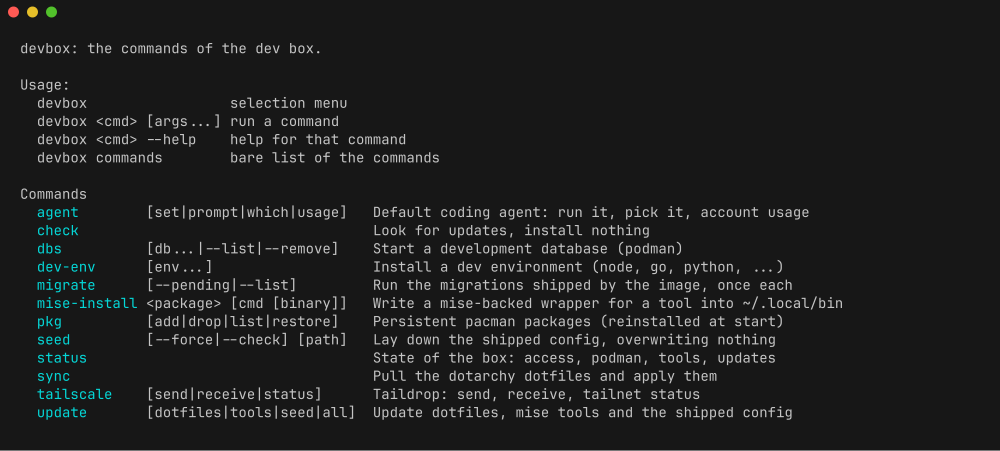
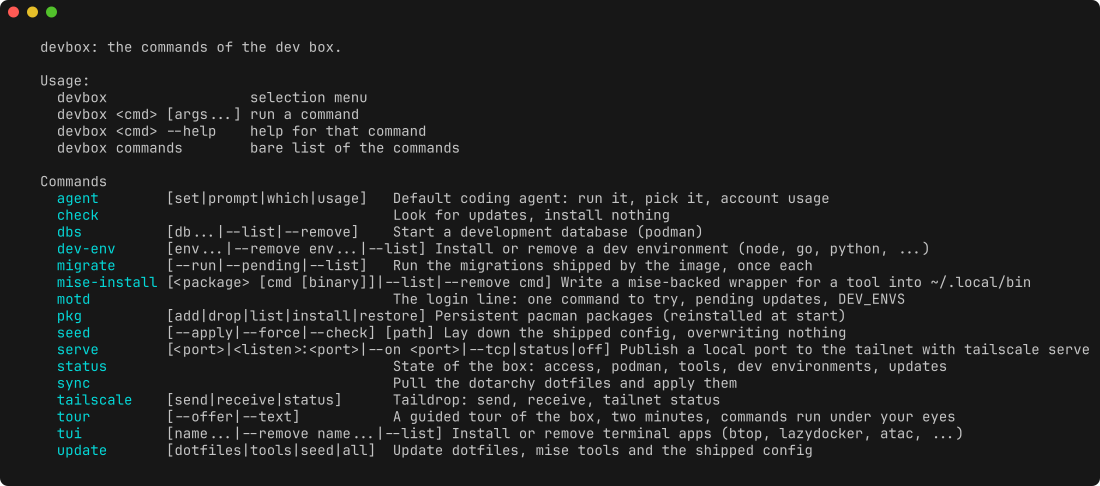
Screenshots: devbox --help and just --list refreshed, devbox tui --list added
Captured from the box over Tailscale SSH and from the host, rendered with
freeze in the same window style as the others.

diff --git a/README.md b/README.md
@@ -590,6 +590,8 @@ devbox tui --remove btop     # remove, and forget
 devbox tui                   # menu: install or remove, then tick the apps
 ```
 
+![devbox tui --list in the box: the catalogue of terminal apps with a one line description each, the installed one marked with a star](docs/screenshots/devbox-tui-list.png)
+
 lazydocker only makes sense with rootless podman on (`PODMAN_ENABLE=true`). What is
 already in the image stays out of the list: lazygit, yazi, fzf, bat, eza, ripgrep, fd,
 jq, gum, tmux and neovim. Anything else from the Arch repositories goes through
